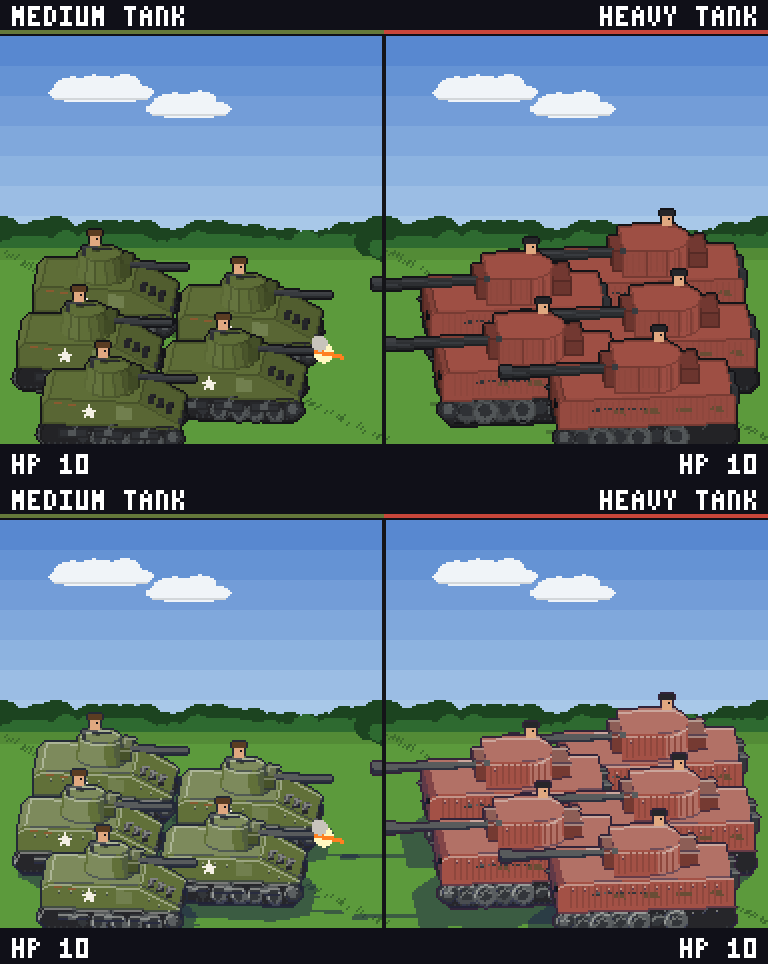
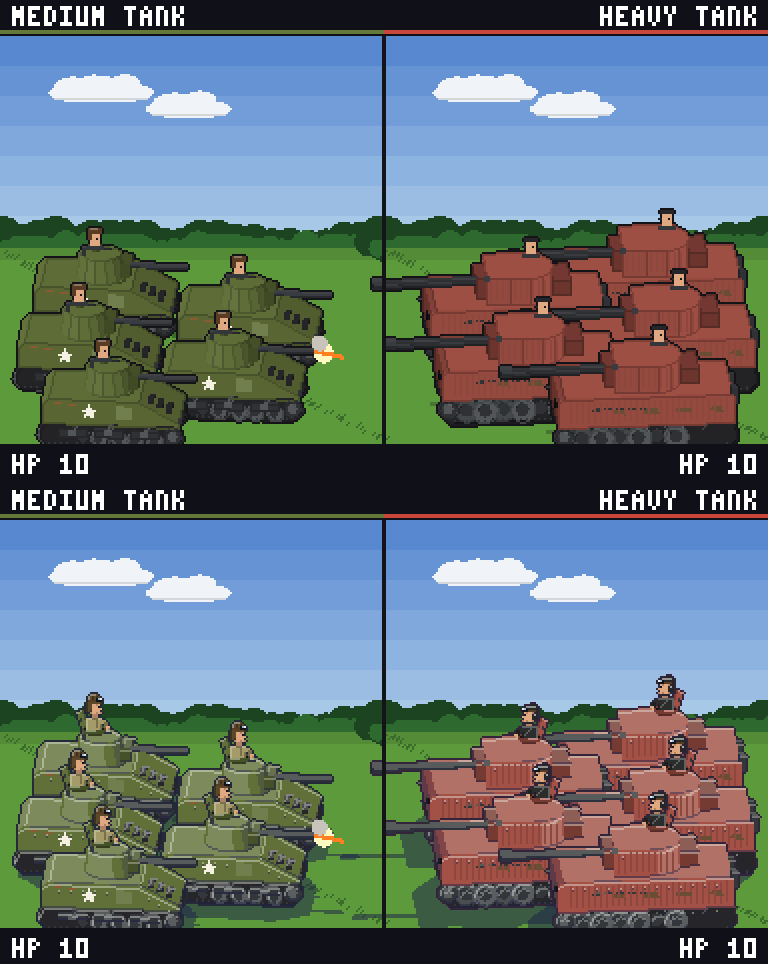
Polish prototype: tank commanders up out of their hatches in tanker headgear
Commanders stand in a hatch ring with the lid open behind them, shoulders,
jacket and one arm over the rim, goggles pushed up: US M1938 tanker helmet,
German side cap with headphones and throat mic, Japanese cork tanker helmet.
Shown in ?battle=demo&angled=on&sample=polish; the "now" side now uses the
game's current commander so the comparison is fair.

Claude-Session: https://claude.ai/code/session_01GAuPaPxS75mT9TJt2aHW4j

diff --git a/src/game/battle/crew.ts b/src/game/battle/crew.ts
@@ -1,0 +1,117 @@
+// A tank commander standing up in his hatch, for the polish prototype (08-art-pipeline §18
+// "Polish"). He comes up out of a hatch ring, its lid swung open behind him, shoulders and one arm
+// out over the rim, wearing his nation's tanker headgear with goggles pushed up:
+// US: the M1938 tanker helmet, its padded ribs and ear flaps. Germany: the side cap under
+// headphones, goggles on the cap and a throat microphone. Japan: the cork tanker's helmet with its
+// ribs and short peak. Faces right; the hatch rim's centre is at (x, y).
+
+import { C, mix, shade, type Painter } from "./paint";
+import { kitOf, type Look } from "./rig";
+
+export interface CommanderOptions {
+  /** Draw the hatch ring and its open lid: false for crew in an open-topped turret. */
+  readonly hatch: boolean;
+}
+
+/** The tanker's jacket: US tan zip jacket, German black wrap jacket, Japanese khaki. */
+function jacketOf(look: Look): string {
+  const kit = kitOf(look);
+  if (kit === "de") return mix(C("battleInk"), C("battleFieldGrey"), 0.3);
+  if (kit === "jp") return C("battleKhaki");
+  return mix(C("battleSand"), C("battleOlive"), 0.45);
+}
+
+export function tankCommander(p: Painter, x: number, y: number, look: Look, opts: CommanderOptions = { hatch: true }): void {
+  const kit = kitOf(look);
+  const ink = C("battleInk");
+  const skin = C("battleSkin");
+  const skinLo = shade(skin, 0.78);
+  const jacket = jacketOf(look);
+  const jacketHi = shade(jacket, 1.25);
+  const jacketLo = shade(jacket, 0.72);
+  const rim = look.team.lo;
+  const rimHi = look.team.hi;
+
+  if (opts.hatch) {
+    // The open lid, hinged at the back of the ring and standing up behind him.
+    p.poly([[x - 6, y], [x - 3, y], [x - 6, y - 10], [x - 9, y - 9]], look.team.mid);
+    p.line(x - 9, y - 9, x - 6, y - 10, rimHi);
+    p.line(x - 6, y - 10, x - 3, y - 1, shade(look.team.mid, 0.75));
+    p.rect(x - 7, y - 6, 1, 2, C("battleSteelDark"));
+    // The ring and the dark hatchway inside it.
+    p.ellipse(x, y, 6, 2.6, rim);
+    p.ellipse(x, y - 0.3, 4.6, 1.7, ink);
+    p.rect(x - 4, y - 2, 6, 1, rimHi);
+  }
+
+  // Shoulders and chest, coming up out of the hatch.
+  p.rect(x - 4, y - 6, 8, 6, jacket);
+  p.rect(x - 4, y - 6, 8, 1, jacketHi);
+  p.rect(x - 4, y - 5, 1, 5, jacketHi);
+  p.rect(x + 3, y - 5, 1, 5, jacketLo);
+  // The collar, and the jacket's front: the US zip, the German wrap's lapel.
+  p.rect(x - 1, y - 6, 3, 1, kit === "de" ? jacketHi : jacketLo);
+  if (kit === "us") p.rect(x + 1, y - 5, 1, 4, jacketLo);
+  if (kit === "de") p.line(x - 1, y - 5, x + 2, y - 2, jacketHi);
+  // The near arm, out over the rim with the hand resting on it.
+  p.rect(x + 3, y - 5, 3, 2, jacket);
+  p.rect(x + 5, y - 4, 2, 3, jacketLo);
+  p.rect(x + 6, y - 2, 2, 2, skin);
+  p.px(x + 7, y - 1, skinLo);
+
+  // Neck and face, looking ahead.
+  p.rect(x - 1, y - 8, 3, 2, skinLo);
+  p.rect(x - 2, y - 13, 5, 5, skin);
+  p.px(x + 3, y - 11, skin); // nose
+  p.px(x + 3, y - 9, skinLo); // chin
+  p.px(x + 2, y - 12, ink); // eye
+  p.px(x + 1, y - 13, skinLo); // brow
+  p.rect(x - 2, y - 13, 1, 5, skinLo); // the side of the head, away from the light
+  p.px(x + 1, y - 9, skinLo); // mouth
+
+  // Headgear, with goggles pushed up on the brow (their lenses catch the light).
+  const lens = (lx: number, ly: number) => {
+    p.rect(lx - 1, ly, 3, 2, ink);
+    p.px(lx, ly, C("battleLens"));
+    p.px(lx + 1, ly, C("battleLightTint"));
+  };
+  if (kit === "de") {
+    // Side cap, then the headphone band over it and an earpiece over the ear.
+    const cap = mix(C("battleInk"), C("battleFieldGrey"), 0.25);
+    p.rect(x - 3, y - 16, 6, 3, cap);
+    p.rect(x + 3, y - 15, 1, 2, cap);
+    p.rect(x - 3, y - 16, 5, 1, shade(cap, 1.5));
+    p.rect(x - 4, y - 14, 7, 1, C("battleLeather")); // goggle strap round the cap
+    lens(x + 2, y - 15);
+    p.rect(x - 3, y - 17, 3, 1, C("battleRubber")); // headphone band
+    p.rect(x - 4, y - 16, 1, 4, C("battleRubber"));
+    p.rect(x - 4, y - 12, 3, 3, C("battleRubber")); // earpiece
+    p.px(x - 3, y - 12, shade(C("battleRubber"), 1.6));
+    p.rect(x - 1, y - 8, 3, 1, C("battleRubber")); // throat microphone strap
+  } else {
+    // A padded tanker's helmet: a ribbed dome with ear flaps; Japan's has a short peak.
+    const hat = kit === "jp" ? mix(C("battleKhaki"), C("battleLeather"), 0.35) : mix(C("battleLeather"), C("battleOlive"), 0.35);
+    const hatHi = shade(hat, 1.35);
+    const hatLo = shade(hat, 0.7);
+    p.rect(x - 3, y - 17, 6, 4, hat);
+    p.rect(x - 2, y - 18, 4, 1, hat);
+    p.rect(x - 2, y - 18, 3, 1, hatHi);
+    p.rect(x - 3, y - 17, 1, 3, hatHi);
+    for (const rx of [x - 1, x + 1]) p.rect(rx, y - 17, 1, 3, hatLo); // padded ribs
+    p.rect(x + 3, y - 15, 1, 2, hatLo);
+    p.rect(x - 4, y - 14, 3, 5, hat); // ear flap
+    p.rect(x - 4, y - 14, 1, 5, hatLo);
+    p.px(x - 2, y - 10, hatLo);
+    if (kit === "jp") p.rect(x + 2, y - 14, 3, 1, hatLo); // peak
+    p.rect(x - 3, y - 15, 5, 1, C("battleLeather")); // goggle strap
+    lens(x + 2, y - 16);
+  }
+
+  if (opts.hatch) {
+    // The front of the ring comes up over his waist.
+    p.rect(x - 5, y, 11, 1, rim);
+    p.rect(x - 4, y + 1, 9, 1, rim);
+    p.rect(x - 3, y + 2, 7, 1, shade(rim, 0.75));
+    p.rect(x - 4, y, 5, 1, rimHi);
+  }
+}

diff --git a/src/game/battle/angled/samples.ts b/src/game/battle/angled/samples.ts
@@ -11,6 +11,8 @@ import { drawBackdrop, SCENE } from "../backdrops";
 import { C, Painter, teamShades } from "../paint";
 import type { Look, Pose } from "../rig";
 import type { Rig } from "../rig";
+import { commander } from "../vehicles";
+import { tankCommander } from "../crew";
 import { artilleryRig, bunkerRig, flakRig, halftrackRig, mobileAARig, reconRig, rocketRig, tankRig } from "../vehicles";
 import { drawGroundShadow, drawMesh, screenPoint, BATTLE_VIEW, type View } from "./mesh";
 import { chiHa, panzerIV, sherman, stug, tiger, type Model } from "./models";
@@ -44,13 +46,6 @@ function stamp(target: CanvasRenderingContext2D, x: number, y: number, draw: (p:
   target.drawImage(fig, Math.round(x) - 160, Math.round(y) - 140);
 }
 
-/** A crewman's head in the hatch: a US tanker helmet or German headphones. */
-function head(p: Painter, x: number, y: number, look: Look): void {
-  p.rect(x - 2, y - 6, 5, 6, C("battleSkin"));
-  p.px(x + 1, y - 4, C("battleInk"));
-  p.rect(x - 3, y - 8, 7, 3, look.nation === "germany" ? C("battleRubber") : C("battleLeather"));
-}
-
 /** The view the samples use; `&deg=10` turns the figures 10 degrees toward the viewer. */
 let view: View = BATTLE_VIEW;
 const degreesOf = (v: View) => Math.round((-v.yaw * 180) / Math.PI);
@@ -65,9 +60,22 @@ function angledTank(target: CanvasRenderingContext2D, model: Model, look: Look, 
   else nowShadow(target, model, x, y, scale);
   stamp(target, x, y, (p) => {
     drawMesh(p, model.faces, view, 0, 0, flip, scale, polish);
-    for (const at of [...(model.commander ? [model.commander] : []), ...(model.crew ?? [])]) {
+    const crew: (readonly [readonly [number, number, number], boolean])[] = [...(model.commander ? [[model.commander, true] as const] : []), ...(model.crew ?? []).map((c) => [c, false] as const)];
+    for (const [at, hatch] of crew) {
       const c = screenPoint(at, view, 0, 0, flip, scale);
-      head(p, c.x, c.y, look);
+      if (finish === "now") {
+        // As the game draws him now (vehicles.ts).
+        commander(p, Math.round(c.x) - 2, Math.round(c.y), look);
+        continue;
+      }
+      // Polish: the commander in his hatch, drawn at 1x and scaled with the model, mirrored with it.
+      const [cc, cctx] = canvas(32, 32);
+      tankCommander(new Painter(cctx), 16, 24, look, { hatch });
+      p.ctx.save();
+      p.ctx.translate(Math.round(c.x), Math.round(c.y));
+      p.ctx.scale(flip ? -scale : scale, scale);
+      p.ctx.drawImage(cc, -16, -24);
+      p.ctx.restore();
     }
   }, polish ? mix(look.team.deep, C("battleShadeTint"), 0.6) : C("battleInk"));
   if (firing) {

diff --git a/src/game/battle/vehicles.ts b/src/game/battle/vehicles.ts
@@ -35,7 +35,7 @@ export function star(p: Painter, cx: number, cy: number): void {
  * A crewman's head in the hatch: a US tanker helmet, German headphones over a side cap, or the
  * Japanese padded tanker's helmet with its peak.
  */
-function commander(p: Painter, x: number, y: number, look: Look): void {
+export function commander(p: Painter, x: number, y: number, look: Look): void {
   p.rect(x, y - 6, 5, 6, C("battleSkin"));
   p.px(x + 3, y - 4, C("battleInk"));
   if (kitOf(look) === "jp") {

diff --git a/src/game/artPack.ts b/src/game/artPack.ts
@@ -97,6 +97,8 @@ const BUILT_IN_COLORS = {
   // Battle scenes, polish prototype (08-art-pipeline §18): shadows lean toward the shade tint, lit faces toward the light tint
   battleShadeTint: "#1c2048",
   battleLightTint: "#eef0e6",
+  // Goggle lenses on tank commanders (polish prototype)
+  battleLens: "#8cc0dc",
   // Battle scenes: effects and panels
   battleFlash: "#fff8c0",
   battleFire: "#ff8020",

diff --git a/docs/08-art-pipeline.md b/docs/08-art-pipeline.md
@@ -483,6 +483,7 @@ Halftracks, Transport Aircraft and Landing Craft are unarmed in the rules (01-un
 - **Rivets:** a light head over a dark underside, every 6 pixels along the top of each big upright plate.
 - **Cast shadow:** the model's own shape flattened onto the ground, pushed forward and toward the viewer by its height, in the shade tint at half strength. It mirrors with the figure, as its lighting does. It replaces the faint oval.
 - **Outline:** the team's darkest shade toward the shade tint, instead of near-black.
+- **Commanders** (`src/game/battle/crew.ts`) stand up out of a hatch ring with its lid swung open behind them: shoulders and chest in the tanker's jacket (US tan zip jacket, German black wrap jacket, Japanese khaki), one arm out over the rim, and goggles pushed up on the brow. US: the M1938 tanker helmet, a ribbed padded dome with ear flaps. Germany: the side cap under a headphone band and earpiece, with a throat microphone; no cap badge. Japan: the cork tanker's helmet with its ribs and short peak. Open-topped vehicles' crews (M10, Ho-Ni) are drawn the same way without the hatch. About 20 pixels tall, against 8 now.
 
 `?battle=demo&angled=on&sample=polish` shows five tanks now and polished side by side, the close-up and the battle mock-up before and after. Images: `docs/art/polish/`.
 
